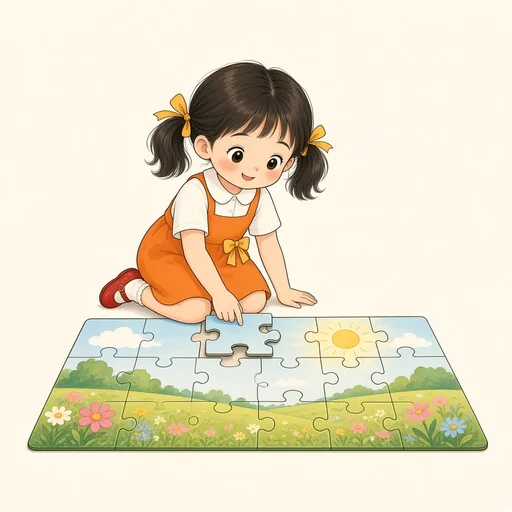
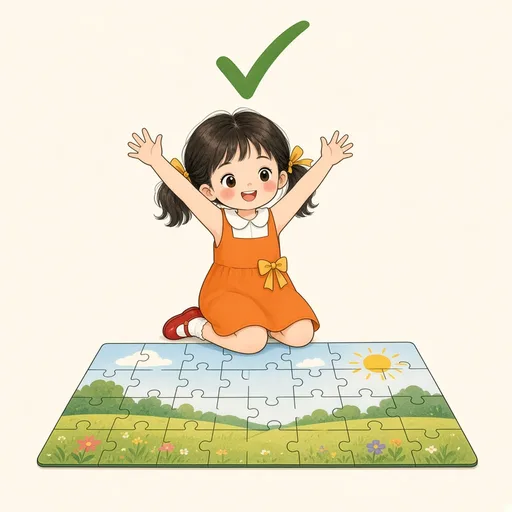
Book 3 v4: unit 7 art (v2 + 句子 应该 虽然 其实 地 使), redraw 需要 完成

diff --git a/chinese-class-web/proto/book3-v4/b3kit.js b/chinese-class-web/proto/book3-v4/b3kit.js
@@ -1,7 +1,7 @@
 /* เล่ม 3 (สร้างด้วย mkkit.py) · ตัวช่วยสร้างการ์ดคำ (ใช้ wcard/syl/rec เดิมของเล่ม 1 ทั้งหมด ไม่เพิ่มรูปแบบหน้าใหม่)
    W(zh,py,th,{s:'qǐng wèn',c:['请','问'],sl:[1]}) · s = พยางค์ตามเสียงจริง (รวมเสียงที่เปลี่ยนของ 一 不) · c = ตัวอักษรของแต่ละพยางค์ (ค่าเริ่มต้นแยกทีละตัว)
    sl = พยางค์ที่ต้องตัดจากเสียงอ่านทั้งคำ (อักษรหลายเสียงอ่าน) · ภาพ: ใช้ภาพ -v2 เป็นภาพหลักสำหรับคำที่วาดใหม่ให้ชัดขึ้น */
-const B3V2=new Set(["一会儿见", "不好意思", "不客气", "不用", "为", "习惯", "买", "买单", "介绍", "休息", "会", "住", "你好", "借", "做", "健康", "关心", "再见", "写", "冷", "准备", "出", "别", "努力", "医院", "千", "卖", "参加", "发烧", "叫", "可乐", "可以", "右边", "同意", "听", "告诉", "哪儿", "唱歌", "商店", "啤酒", "喂", "喜欢", "喝", "回", "回答", "坐", "复习", "外带", "大", "奇怪", "好吃", "姑姑", "学习", "学校", "完", "完成", "害怕", "家", "对不起", "小", "工作", "左边", "希望", "带", "帮助", "帮忙", "开", "往", "忙", "快", "快乐", "想", "感冒", "愿意", "懂", "打电话", "打篮球", "找", "担心", "换", "接", "搬", "教", "敢", "旅游", "早上好", "明天见", "明白", "晚", "晚上好", "晚安", "有", "来", "欢迎", "正在", "没关系", "洗", "渴", "游泳", "满意", "漂亮", "激动", "热情", "照顾", "爱", "玩", "珍珠", "甜", "生气", "生病", "用", "疼", "瘦", "百", "相信", "看", "看见", "着急", "睡觉", "知道", "短", "离", "穿", "突然", "笑", "等", "糖", "累", "终于", "经过", "给", "聪明", "胖", "能", "舅舅", "行李", "表演", "见面", "觉得", "认识", "让", "讲", "试", "说", "请", "请问", "读", "谢谢", "走", "起床", "跑", "跑步", "跟", "跳", "跳舞", "踢", "运动", "近", "这", "进", "迟到", "迷路", "送", "那", "重", "锻炼", "长", "问", "问题", "难", "难过", "需要", "饭店", "饿", "骑", "高兴", "麻烦你"]);
+const B3V2=new Set(["一会儿见", "上网", "不好意思", "不客气", "不用", "为", "习惯", "买", "买单", "介绍", "休息", "会", "住", "你好", "借", "做", "健康", "关", "关心", "兴趣", "再见", "写", "冷", "准备", "出", "别", "努力", "医院", "千", "卖", "参加", "发烧", "叫", "可乐", "可以", "右边", "同意", "听", "告诉", "哪儿", "唱歌", "商店", "啤酒", "喂", "喜欢", "喝", "回", "回答", "坐", "复习", "外带", "大", "奇怪", "好吃", "姑姑", "学习", "学校", "完", "完成", "害怕", "家", "对不起", "小", "工作", "左边", "希望", "带", "帮助", "帮忙", "开", "往", "忙", "快", "快乐", "想", "感冒", "愿意", "懂", "打电话", "打篮球", "找", "担心", "换", "接", "搬", "教", "敢", "旅游", "早上好", "明天见", "明白", "晚", "晚上好", "晚安", "有", "来", "欢迎", "正在", "没关系", "洗", "洗澡", "渴", "游泳", "满意", "漂亮", "激动", "热情", "照顾", "爱", "爱好", "玩", "珍珠", "甜", "生气", "生病", "用", "画", "疼", "瘦", "百", "相信", "看", "看见", "着急", "睡觉", "知道", "短", "离", "穿", "突然", "笑", "等", "糖", "累", "终于", "经过", "给", "聪明", "胖", "能", "舅舅", "行李", "表演", "见面", "觉得", "认识", "让", "讲", "试", "说", "请", "请问", "读", "谢谢", "走", "起床", "跑", "跑步", "跟", "跳", "跳舞", "踢", "运动", "近", "这", "进", "迟到", "迷路", "送", "那", "重", "锻炼", "长", "问", "问题", "难", "难过", "需要", "饭店", "饿", "骑", "高兴", "麻烦你"]);
 const B3CLEAR=new Set(["离", "近", "左边", "右边", "百", "千", "长", "饭店", "短", "行李"]);
 const TN=s=>/[āēīōūǖ]/.test(s)?1:/[áéíóúǘ]/.test(s)?2:/[ǎěǐǒǔǚ]/.test(s)?3:/[àèìòùǜ]/.test(s)?4:0;
 const TCAP={0:'เสียงเบา',1:'เสียง 1 สูงเรียบ',2:'เสียง 2 ขึ้น',3:'เสียง 3 ลงแล้วขึ้น',4:'เสียง 4 ลงสั้น'};
